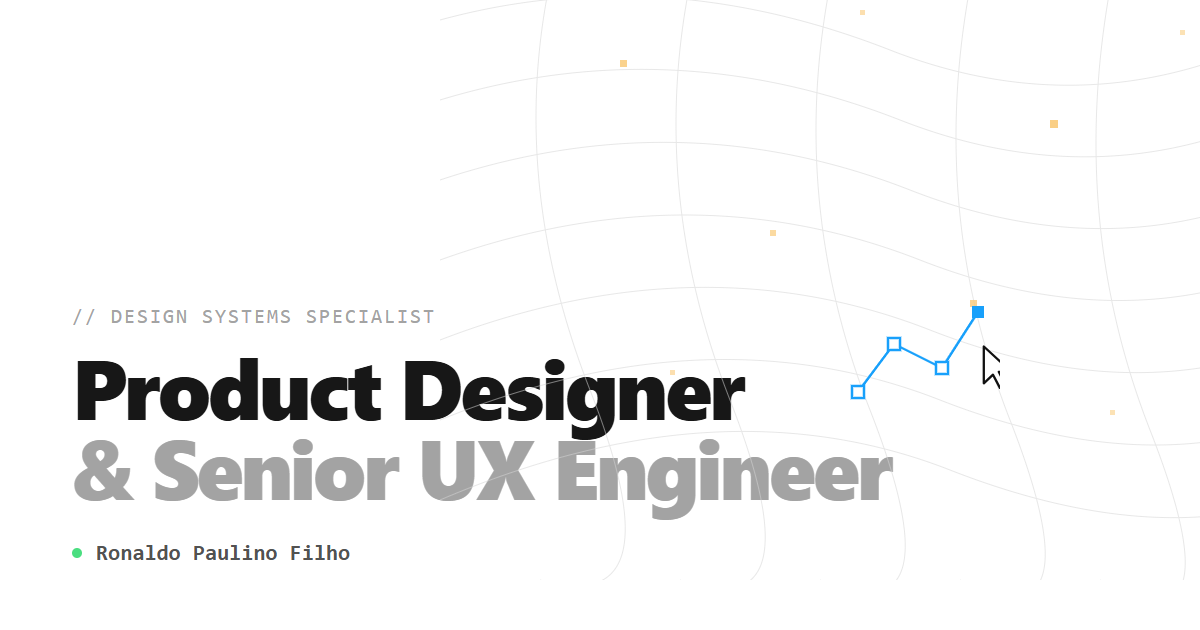
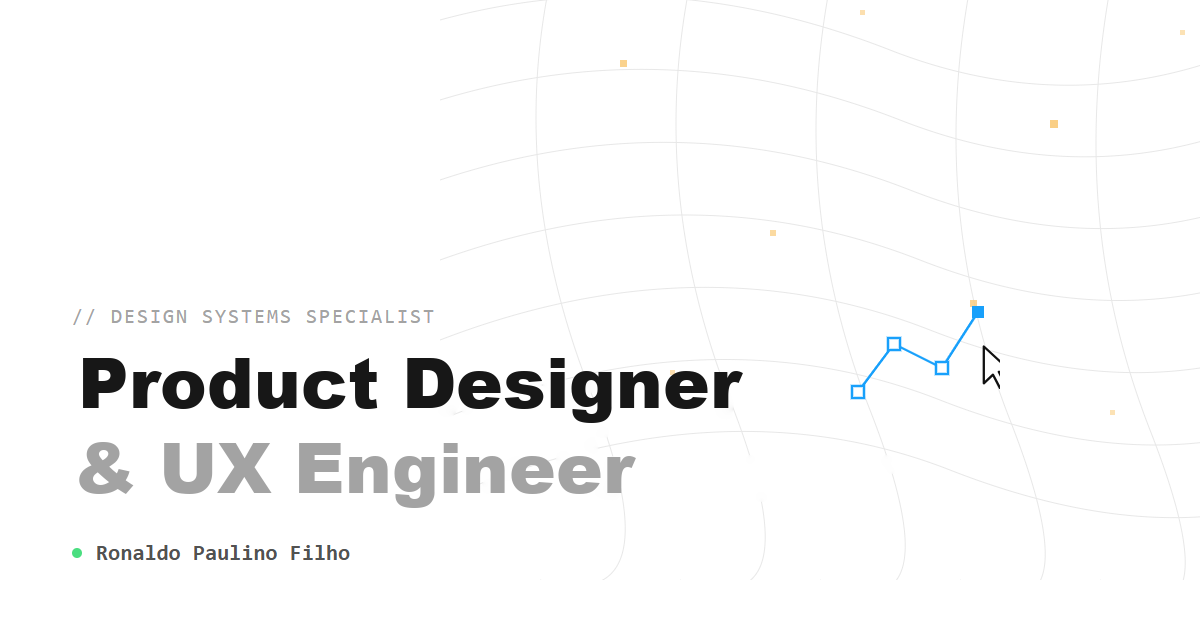
feat: apresenta o cargo como UX Engineer, sem o Senior
Título, apresentação, meta tags, dados estruturados e a imagem de
compartilhamento passam a dizer Product Designer & UX Engineer.

Changed region(s): [[0.0617, 0.5429, 0.7708, 0.8444]]

diff --git a/src/data/translations.ts b/src/data/translations.ts
@@ -15,14 +15,14 @@ export const translations = {
       label: 'hero',
       badge: 'Porto Alegre · disponível para novos projetos',
       tagline: '// Design Systems Specialist',
-      heading: ['Product Designer', '& Senior UX Engineer'],
+      heading: ['Product Designer', '& UX Engineer'],
       cta: 'Projetos',
       cv: 'Baixar Currículo',
     },
     about: {
       label: 'sobre',
       heading: ['Estratégia que escala,', 'código que entrega.'],
-      body: 'Product Designer & Senior UX Engineer com mais de 6 anos de experiência na arquitetura de produtos B2B de alta complexidade. Especialista na intersecção entre Design de Produto (UX/UI), Engenharia Front-End (React/Vue/TypeScript) e integração estratégica de IA — garantindo que a visão de produto seja tecnicamente viável e escalável.',
+      body: 'Product Designer & UX Engineer com mais de 6 anos de experiência na arquitetura de produtos B2B de alta complexidade. Especialista na intersecção entre Design de Produto (UX/UI), Engenharia Front-End (React/Vue/TypeScript) e integração estratégica de IA — garantindo que a visão de produto seja tecnicamente viável e escalável.',
       areas: [
         {
           title: 'Design Ops & Scalability',
@@ -117,14 +117,14 @@ export const translations = {
       label: 'hero',
       badge: 'Porto Alegre, Brazil · available for new projects',
       tagline: '// Design Systems Specialist',
-      heading: ['Product Designer', '& Senior UX Engineer'],
+      heading: ['Product Designer', '& UX Engineer'],
       cta: 'Projects',
       cv: 'Download Resume',
     },
     about: {
       label: 'about',
       heading: ['Strategy that scales,', 'code that delivers.'],
-      body: 'Product Designer & Senior UX Engineer with over 6 years of experience in high-complexity B2B product architecture. Specialist at the intersection of Product Design (UX/UI), Front-End Engineering (React/Vue/TypeScript) and strategic AI integration — ensuring product vision is technically viable and scalable.',
+      body: 'Product Designer & UX Engineer with over 6 years of experience in high-complexity B2B product architecture. Specialist at the intersection of Product Design (UX/UI), Front-End Engineering (React/Vue/TypeScript) and strategic AI integration — ensuring product vision is technically viable and scalable.',
       areas: [
         {
           title: 'Design Ops & Scalability',

diff --git a/index.html b/index.html
@@ -27,7 +27,7 @@
     <meta property="og:title" content="Ronaldo Paulino Filho — Product Designer & UX Engineer" />
     <meta
       property="og:description"
-      content="Product Designer e Senior UX Engineer especializado em Design Systems. Criando experiências digitais elegantes, do design ao código."
+      content="Product Designer e UX Engineer especializado em Design Systems. Criando experiências digitais elegantes, do design ao código."
     />
     <meta property="og:url" content="https://www.ronaldopaulinofilho.com.br/" />
     <meta property="og:image" content="https://www.ronaldopaulinofilho.com.br/og-image.png" />
@@ -39,7 +39,7 @@
     <meta name="twitter:title" content="Ronaldo Paulino Filho — Product Designer & UX Engineer" />
     <meta
       name="twitter:description"
-      content="Product Designer e Senior UX Engineer especializado em Design Systems. Criando experiências digitais elegantes, do design ao código."
+      content="Product Designer e UX Engineer especializado em Design Systems. Criando experiências digitais elegantes, do design ao código."
     />
     <meta name="twitter:image" content="https://www.ronaldopaulinofilho.com.br/og-image.png" />
     <meta name="twitter:image:alt" content="Portfólio de Ronaldo Paulino Filho — Product Designer & UX Engineer" />
@@ -69,8 +69,8 @@
             "@type": "Person",
             "@id": "https://www.ronaldopaulinofilho.com.br/#person",
             "name": "Ronaldo Paulino Filho",
-            "jobTitle": "Product Designer & Senior UX Engineer",
-            "description": "Product Designer e Senior UX Engineer especializado em Design Systems, com atuação em CRM omnichannel, SaaS B2B e integração de design com código.",
+            "jobTitle": "Product Designer & UX Engineer",
+            "description": "Product Designer e UX Engineer especializado em Design Systems, com atuação em CRM omnichannel, SaaS B2B e integração de design com código.",
             "url": "https://www.ronaldopaulinofilho.com.br/",
             "image": "https://www.ronaldopaulinofilho.com.br/og-image.png",
             "email": "mailto:rpfilho2@gmail.com",
